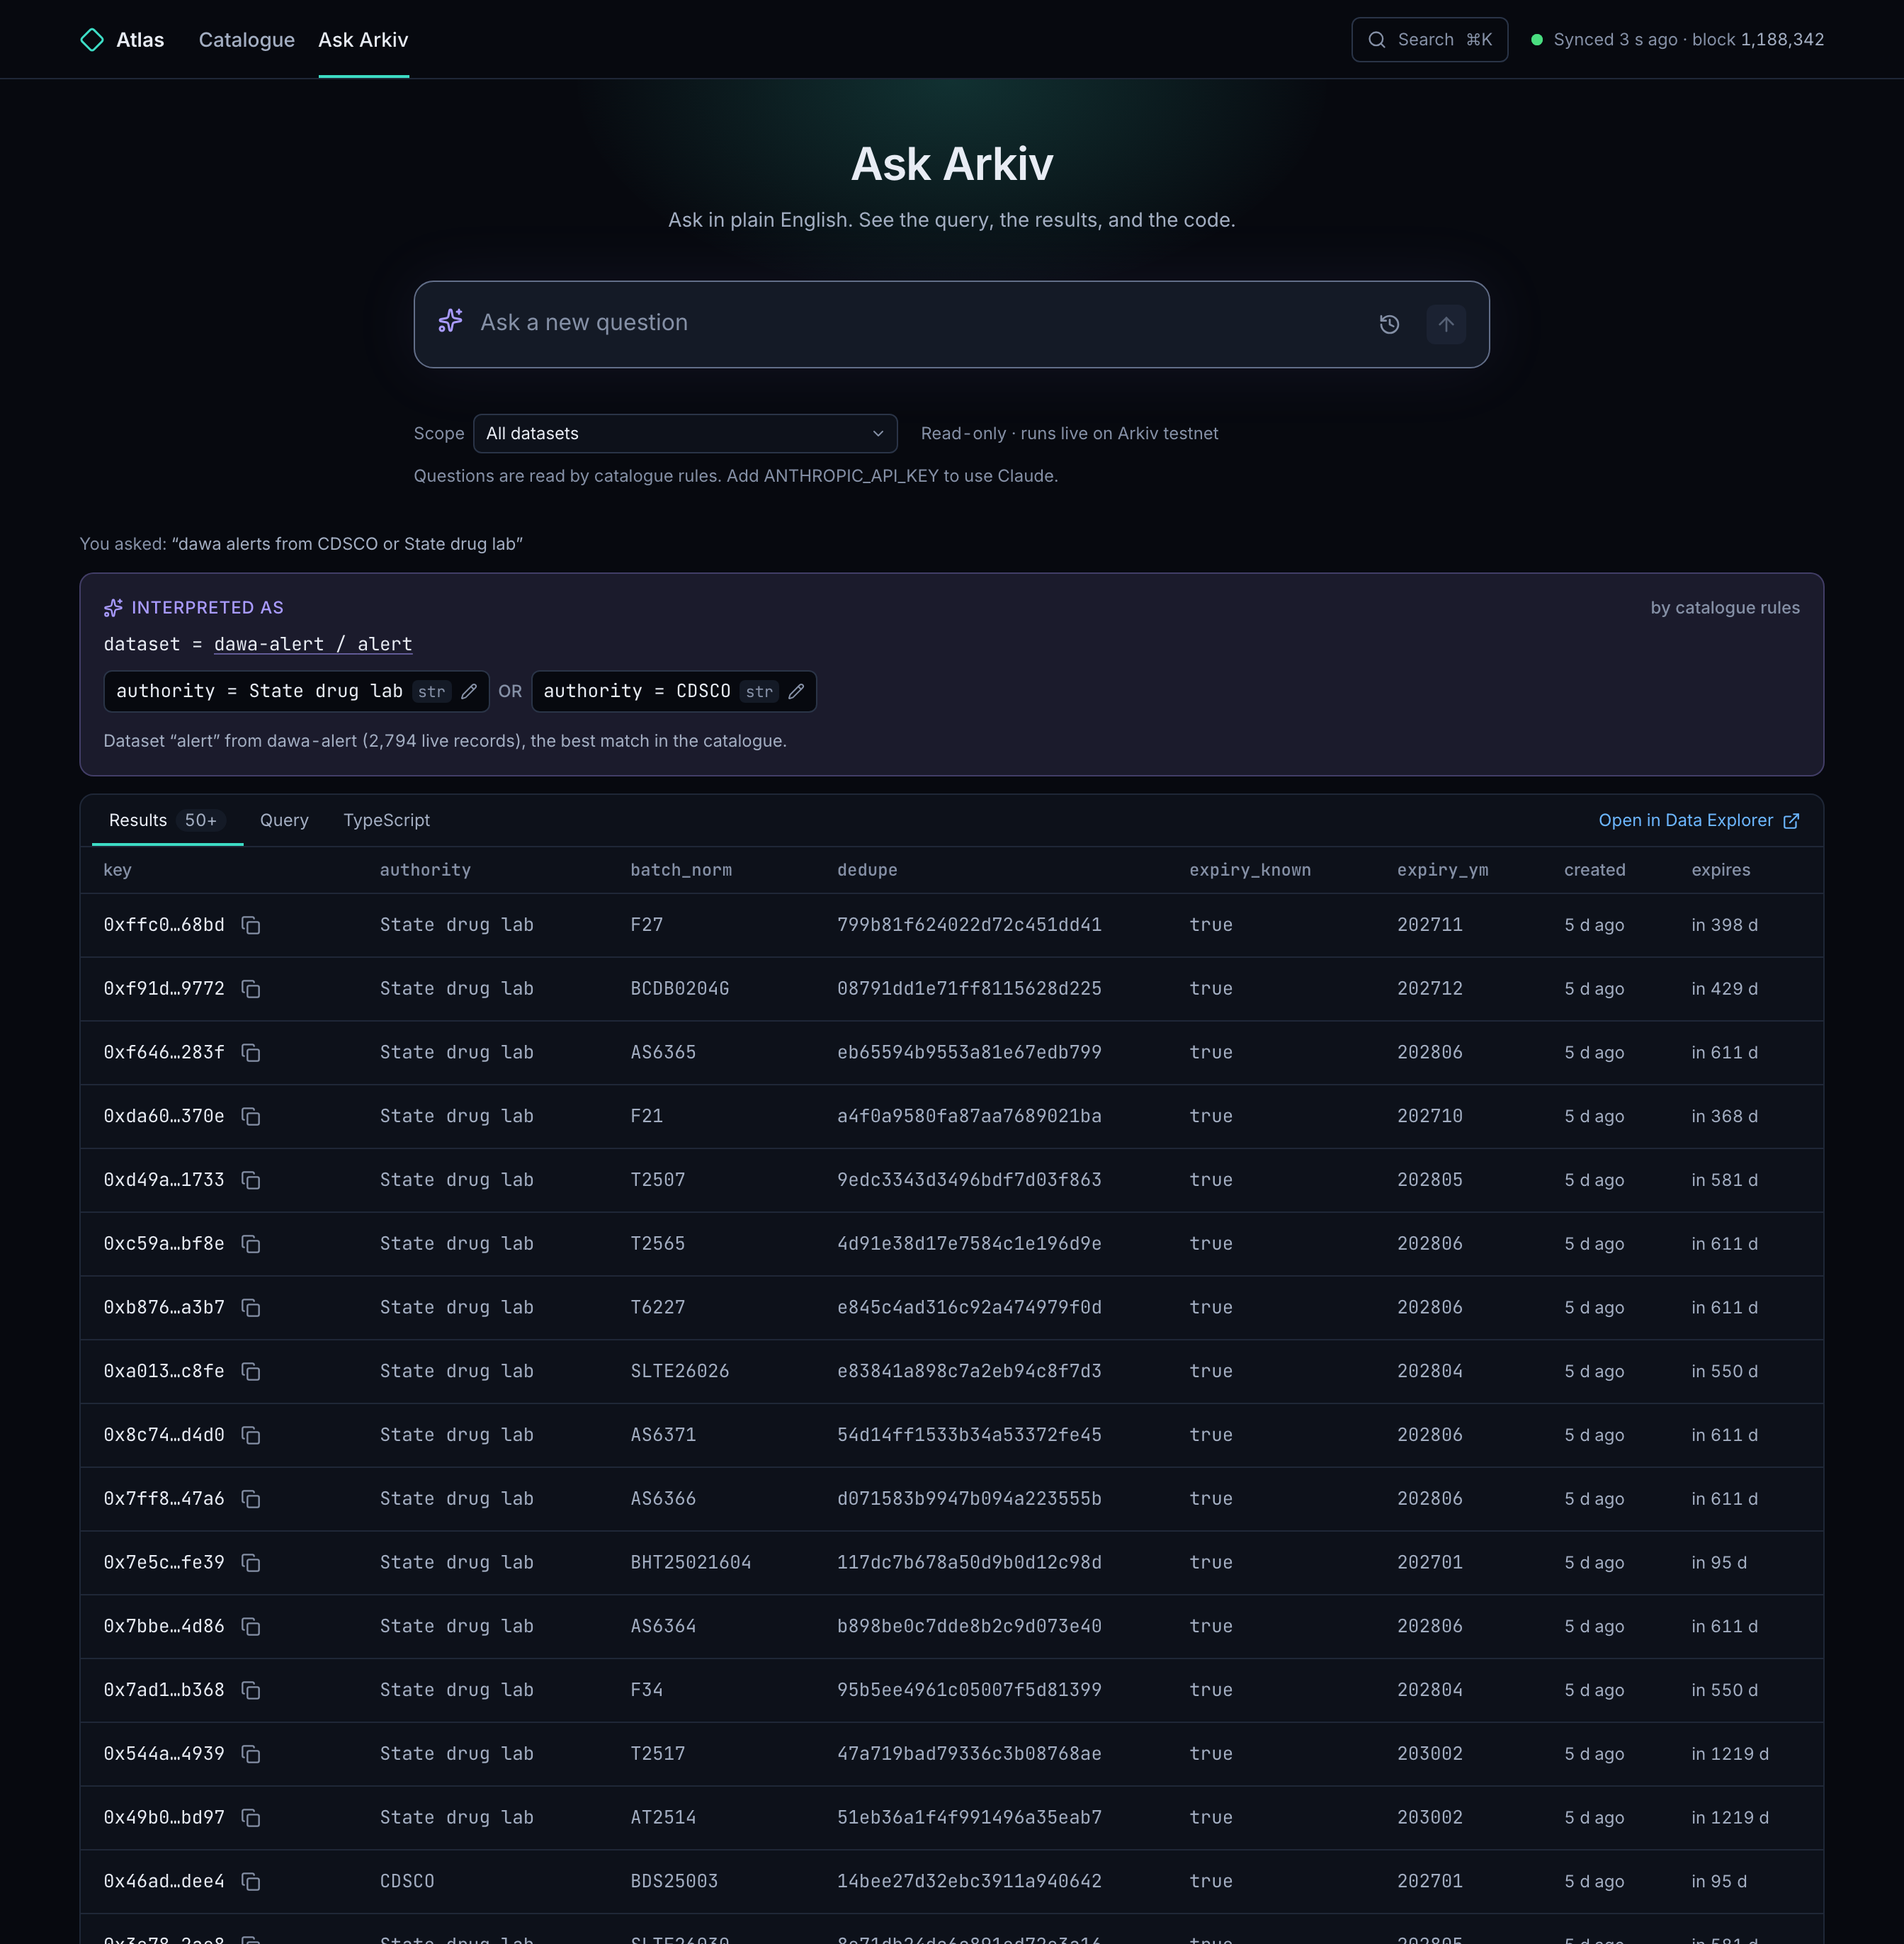
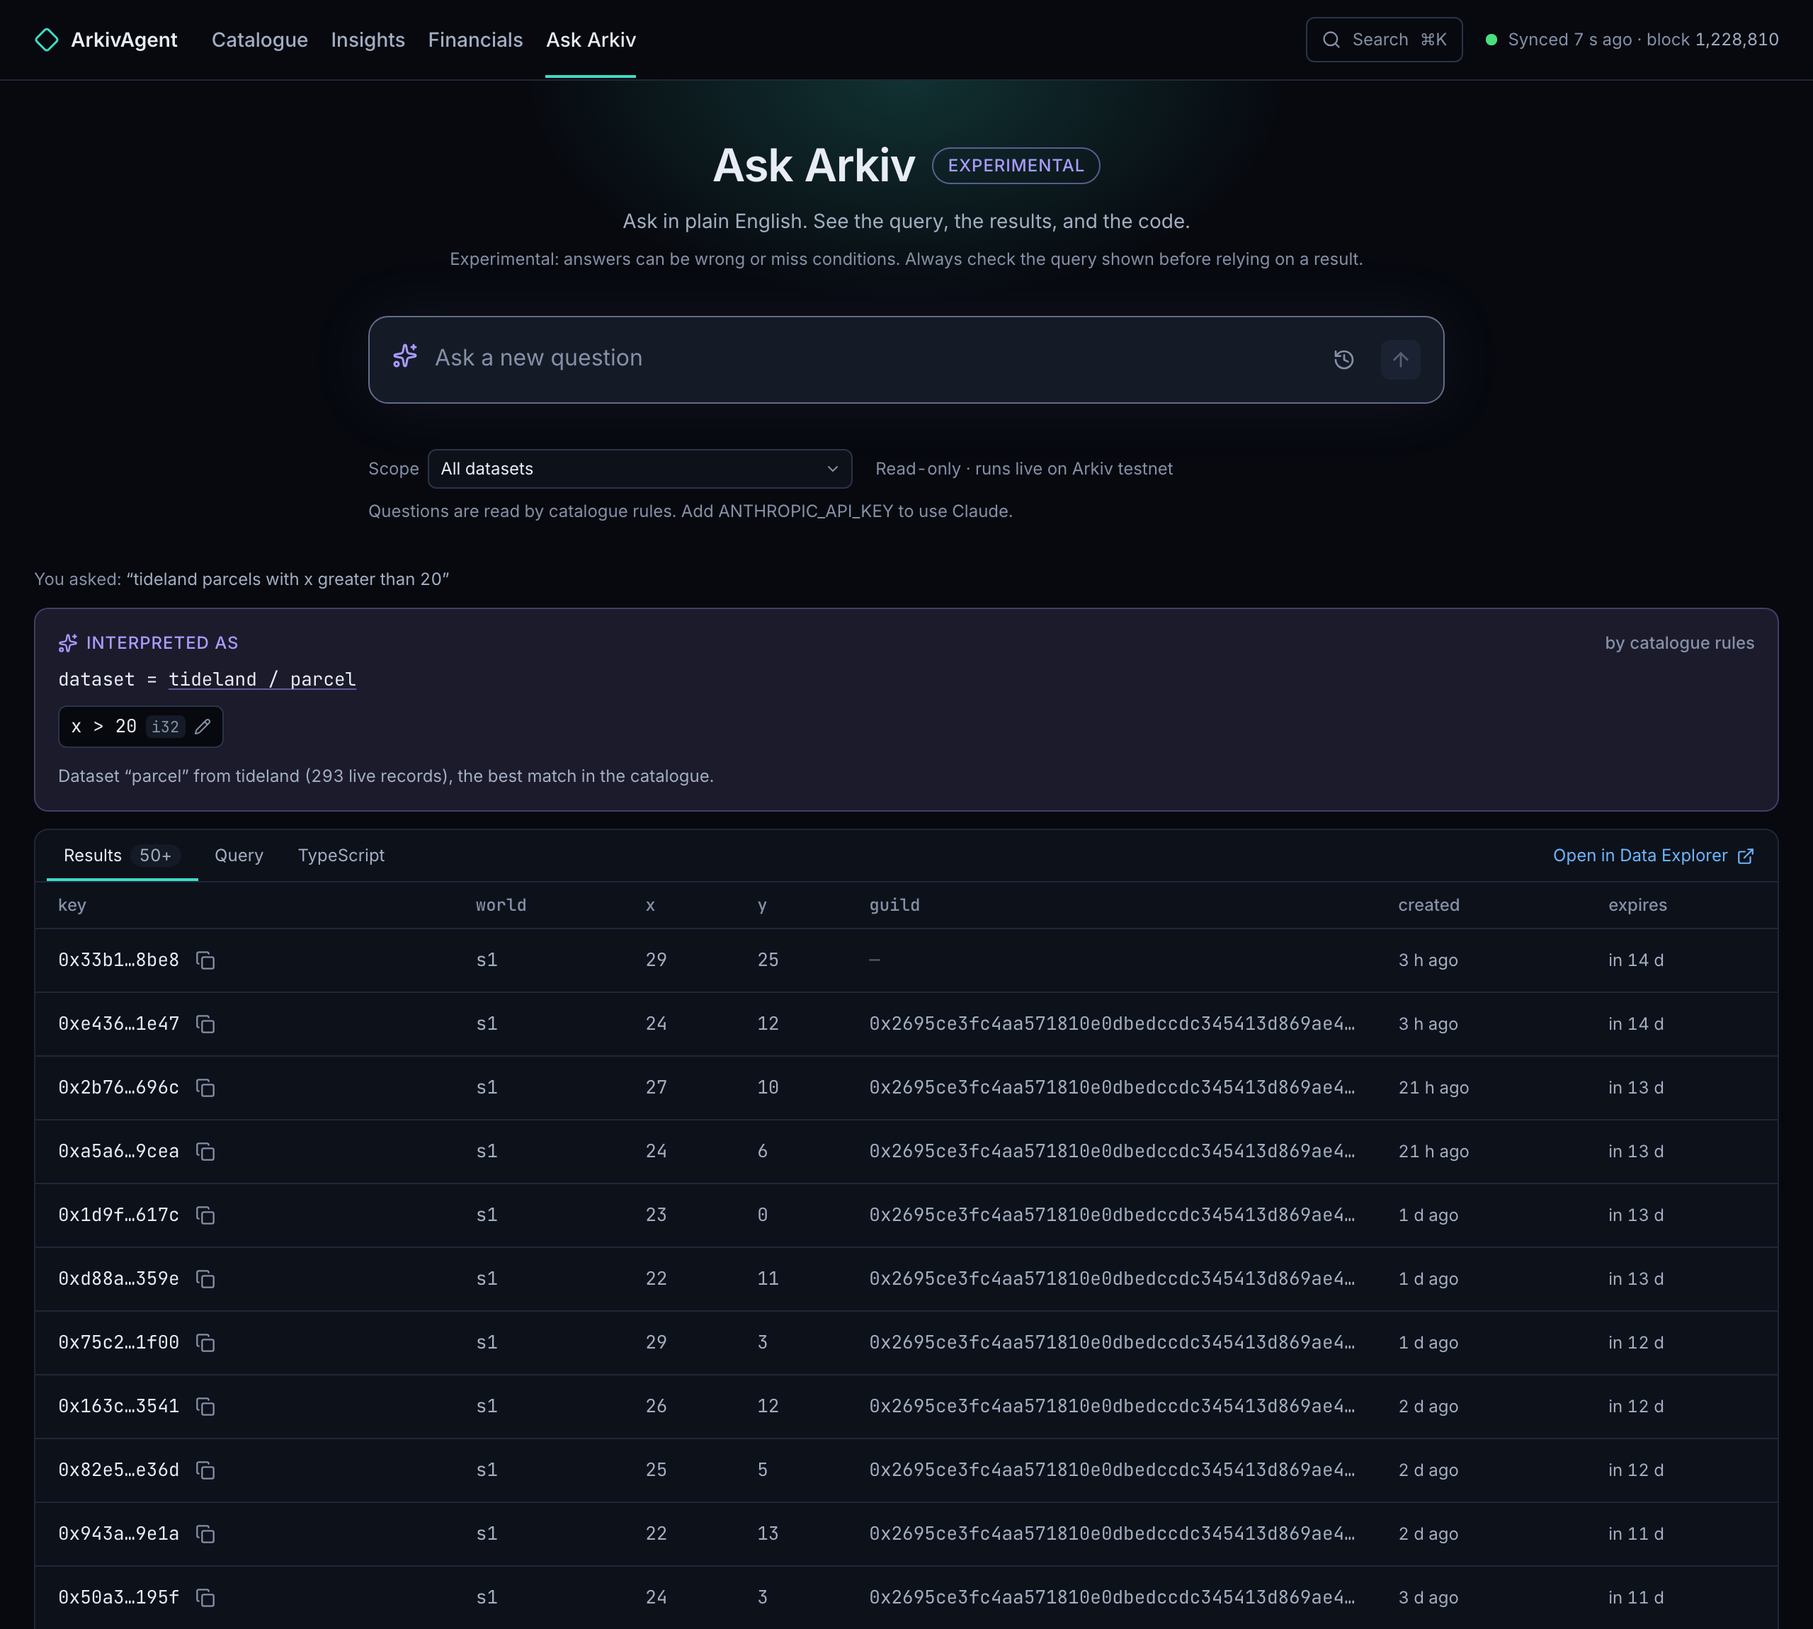
T01: README screenshots of every main screen, with commentary
New Screens section in README.md: Data catalogue, dataset page, Ask Arkiv,
Insights and Financials, each with a current screenshot (29 Oct 2026, owner's
app on 3101, 1280 px, dark, reduced motion, 2x) and a short commentary on what
it shows and why it matters. catalogue.png and ask.png replaced; dataset.png,
insights.png and financials.png added; all under 600 KB. The hero image stays;
the Ask image moved from "What it is" into the new section.

diff --git a/README.md b/README.md
@@ -6,6 +6,8 @@ query, the results and the SDK code.
 
 ![ArkivAgent data catalogue: stat tiles, filters and a live list of datasets on Arkiv's Tiramisu testnet](docs/screenshots/catalogue.png)
 
+A tour of every screen is under [Screens](#screens).
+
 ## What it is
 
 Arkiv is Golem's queryable data layer: apps write records (entities) with typed attributes, a payload
@@ -35,14 +37,60 @@ shows the level above that: **projects and datasets**.
 - **Read-only.** ArkivAgent holds no wallet and writes nothing to Arkiv. It runs on your machine against
   Arkiv's public Tiramisu testnet.
 
-![Ask Arkiv: a question becomes editable query chips, then live results from Arkiv](docs/screenshots/ask.png)
-
 | Feature | Status |
 |---|---|
 | Data catalogue | Built |
 | Ask Arkiv | Built |
 | Insights | Built (stretch; differences from `design/05-pulse.md` under [Known gaps](#known-gaps)) |
 | Financials | Built (stretch; needs `pnpm fees`; differences from `design/06-cost.md` under [Known gaps](#known-gaps)) |
+
+## Screens
+
+The four screens in the top bar, plus the page for a single dataset. Captured on 29 Oct 2026 from a
+local index of the Tiramisu testnet, at 1280 px in dark mode.
+
+### Data catalogue (`/catalogue`)
+
+![Data catalogue: tiles for datasets, live records, projects and writes in the last 24 hours; the decode progress bar; search and filters; and the dataset list with project, live count, writers, lifetime and last write](docs/screenshots/catalogue.png)
+
+Every dataset on Arkiv, grouped by project label and record kind, with its live count, writers,
+ownership, typical lifetime and last write. This is the view Golem's explorers don't have: what is
+stored and who writes it, without opening single records. The decode bar shows how far the indexer
+is with new records, and the sync indicator in the top bar says how fresh everything is.
+
+### Dataset page (`/catalogue/<id>`)
+
+![Dataset page for tideland / structure: actions to ask, copy an SDK snippet or open Data Explorer; live, writers, median life and payload tiles; the inferred schema with types, examples and how often each attribute is set; and a 7-day chart of writes and expiries](docs/screenshots/dataset.png)
+
+One dataset in full: the schema inferred from its records (each attribute's type, examples and how
+often it is set), live stats, and a 7-day chart of writes against expiries. Weak attribution is
+flagged (here, a label also used by unrelated wallets), and one click copies SDK code to read the data
+back or opens the same query in Data Explorer.
+
+### Ask Arkiv (`/ask`)
+
+![Ask Arkiv answering "tideland parcels with x greater than 20": interpreted as the tideland parcel dataset with an editable x > 20 chip, then a live results table with tabs for the query and the TypeScript](docs/screenshots/ask.png)
+
+A plain-English question becomes a typed Arkiv query built from the catalogue's schema, then runs
+live. Each condition is a chip you can edit, and the query, the TypeScript and a Data Explorer link
+sit one tab away, so you can check the answer before trusting it. This one ran on catalogue rules
+alone; add `ANTHROPIC_API_KEY` to have Claude read the question.
+
+### Insights (`/insights`)
+
+![Insights over 30 days: tiles for active wallets, active projects, writes, new projects and estimated GLM spent; a retention chart for one weekly cohort with its projects; and writes over time](docs/screenshots/insights.png)
+
+Who is building on Arkiv, and who keeps building: active wallets and projects, writes, new projects
+and estimated spend over 7, 30 or 90 days, retention by the week a project first wrote, and activity
+over time. Arkiv's own load generators are left out by default, so the numbers reflect real apps.
+
+### Financials (`/financials`)
+
+![Financials: the GLM/USD price over 30 days; the cost calculator with writes per day, payload size and lifetime giving a 30-day fee estimate, its range and what drives it; and estimated spend across all projects for the last 30 days](docs/screenshots/financials.png)
+
+What writing to Arkiv costs. The calculator turns writes per day, payload size and lifetime into a
+30-day fee with its range and what drives it, using a fee model fitted to sampled Tiramisu receipts.
+The GLM price chart and the spend figures put that in dollars and show what projects actually spend.
 
 ## Run it locally
 
